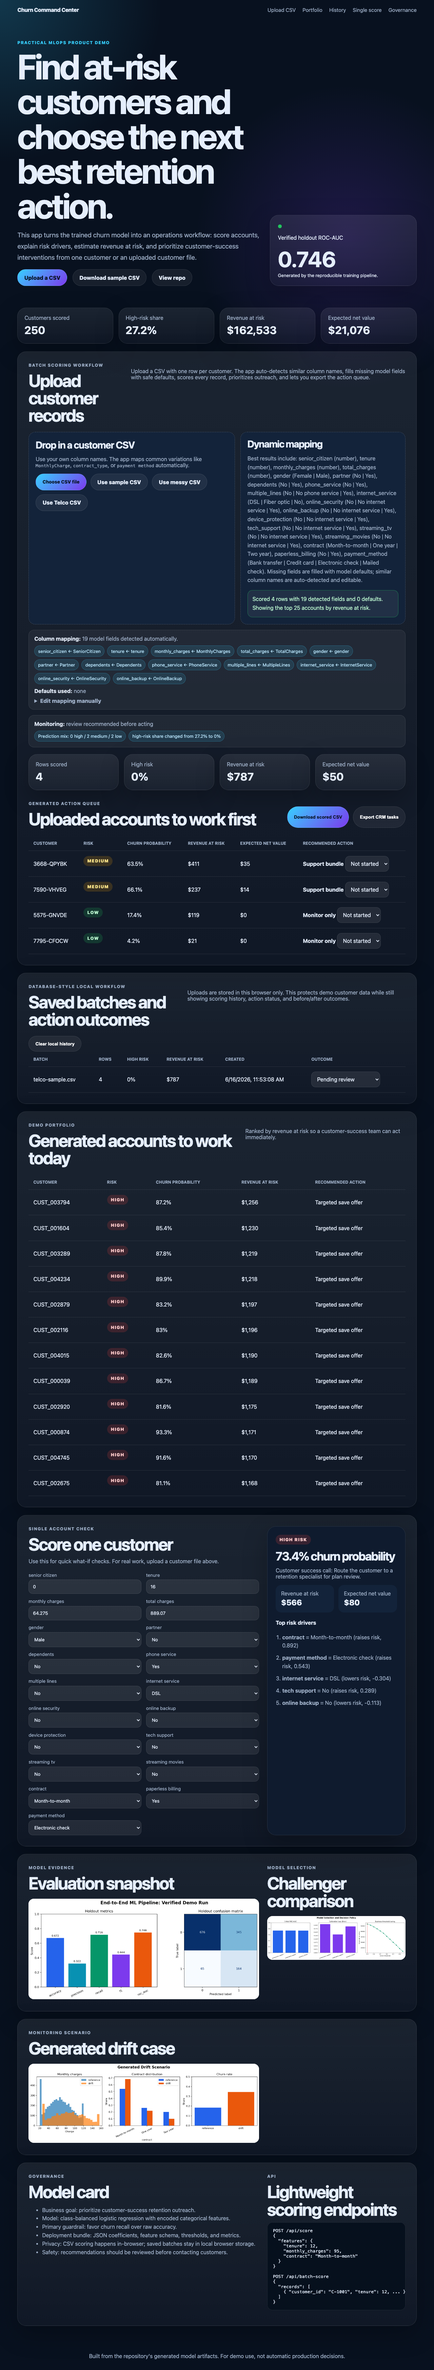
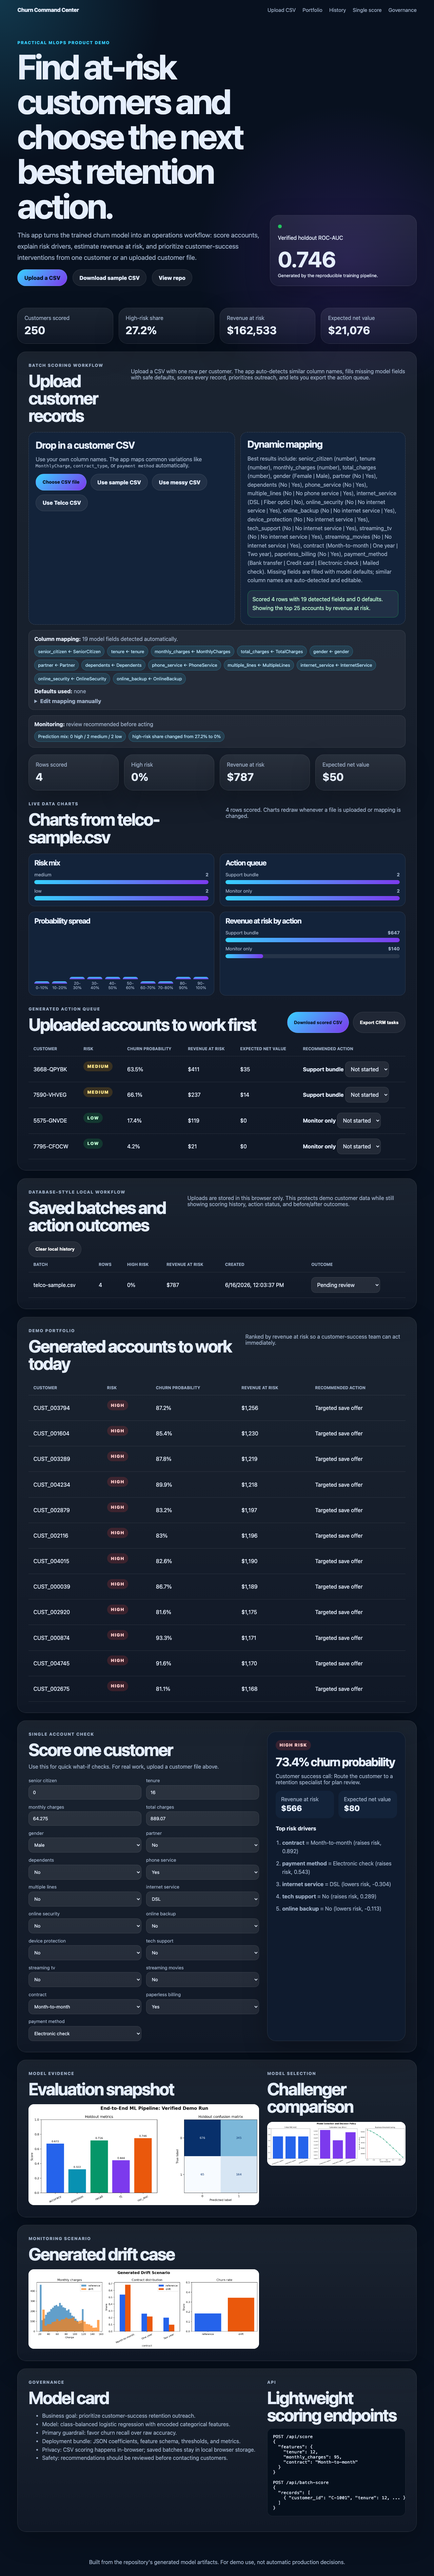
Add dynamic uploaded data charts

diff --git a/public/app.js b/public/app.js
@@ -198,6 +198,76 @@ function summarizeRows(rows) {
   };
 }
 
+function countBy(rows, getter) {
+  return rows.reduce((counts, row) => {
+    const key = getter(row) || "Unknown";
+    counts[key] = (counts[key] || 0) + 1;
+    return counts;
+  }, {});
+}
+
+function sumBy(rows, getter, valueGetter) {
+  return rows.reduce((totals, row) => {
+    const key = getter(row) || "Unknown";
+    totals[key] = (totals[key] || 0) + Number(valueGetter(row) || 0);
+    return totals;
+  }, {});
+}
+
+function renderBarChart(elementId, values, formatter = (value) => value.toLocaleString()) {
+  const element = document.querySelector(elementId);
+  const entries = Object.entries(values).sort((a, b) => b[1] - a[1]);
+  const max = Math.max(...entries.map(([, value]) => value), 1);
+  element.innerHTML = entries
+    .map(([label, value]) => {
+      const width = Math.max((value / max) * 100, 3);
+      return `
+        <div class="bar-row">
+          <div class="bar-label"><span>${label}</span><strong>${formatter(value)}</strong></div>
+          <div class="bar-track"><div class="bar-fill" style="width:${width}%"></div></div>
+        </div>
+      `;
+    })
+    .join("");
+}
+
+function renderProbabilityHistogram(rows) {
+  const bins = Array.from({ length: 10 }, (_, index) => ({
+    label: `${index * 10}-${index * 10 + 10}%`,
+    count: 0,
+  }));
+  rows.forEach((row) => {
+    const index = Math.min(Math.floor(row.score.churn_probability * 10), 9);
+    bins[index].count += 1;
+  });
+  const max = Math.max(...bins.map((bin) => bin.count), 1);
+  document.querySelector("#probability-chart").innerHTML = bins
+    .map(
+      (bin) => `
+        <div class="histogram-bin" title="${bin.label}: ${bin.count}">
+          <div class="histogram-bar" style="height:${Math.max((bin.count / max) * 100, 4)}%"></div>
+          <span>${bin.label}</span>
+        </div>
+      `,
+    )
+    .join("");
+}
+
+function renderLiveCharts(rows, label = "generated demo data") {
+  if (!rows.length) return;
+  document.querySelector("#chart-heading").textContent = `Charts from ${label}`;
+  document.querySelector("#chart-subtitle").textContent =
+    `${rows.length.toLocaleString()} rows scored. Charts redraw whenever a file is uploaded or mapping is changed.`;
+  renderBarChart("#risk-chart", countBy(rows, (row) => row.score.risk_band));
+  renderBarChart("#action-chart", countBy(rows, (row) => row.score.recommended_action));
+  renderProbabilityHistogram(rows);
+  renderBarChart(
+    "#revenue-action-chart",
+    sumBy(rows, (row) => row.score.recommended_action, (row) => row.score.revenue_at_risk),
+    money.format,
+  );
+}
+
 function parseCsv(text) {
   const rows = [];
   let row = [];
@@ -366,6 +436,7 @@ async function applyManualMapping() {
   renderMonitoringReport();
   renderUploadSummary(state.uploaded);
   renderUploadedTable();
+  renderLiveCharts(state.uploaded, "your remapped CSV");
   saveCurrentBatch("Manual mapping update");
 }
 
@@ -595,6 +666,7 @@ async function processUploadedCsv(text, label) {
   renderMonitoringReport();
   renderUploadSummary(state.uploaded);
   renderUploadedTable();
+  renderLiveCharts(state.uploaded, label);
   uploadResults.classList.remove("hidden");
   saveCurrentBatch(label);
 }
@@ -717,6 +789,7 @@ async function load() {
   renderSchemaHelp();
   renderForm();
   renderTable();
+  renderLiveCharts(state.customers, "generated demo data");
   loadHistory();
   renderHistory();
   updateScore();

diff --git a/public/styles.css b/public/styles.css
@@ -299,6 +299,91 @@ footer,
   margin: 1rem 0;
 }
 
+.insight-panel {
+  margin-top: 1.25rem;
+}
+
+.chart-grid {
+  display: grid;
+  gap: 1rem;
+  grid-template-columns: repeat(2, minmax(0, 1fr));
+}
+
+.live-chart-card {
+  background: var(--panel-2);
+  border: 1px solid var(--line);
+  border-radius: 1.1rem;
+  padding: 1rem;
+}
+
+.live-chart-card h3 {
+  font-size: 1.35rem;
+  margin-bottom: 1rem;
+}
+
+.bar-chart,
+.histogram {
+  display: grid;
+  gap: 0.7rem;
+}
+
+.bar-row {
+  display: grid;
+  gap: 0.45rem;
+}
+
+.bar-label {
+  align-items: center;
+  color: var(--muted);
+  display: flex;
+  font-size: 0.85rem;
+  justify-content: space-between;
+}
+
+.bar-track {
+  background: rgba(255, 255, 255, 0.08);
+  border-radius: 999px;
+  height: 0.8rem;
+  overflow: hidden;
+}
+
+.bar-fill {
+  background: linear-gradient(90deg, var(--brand), var(--brand-2));
+  border-radius: inherit;
+  height: 100%;
+  min-width: 0.35rem;
+}
+
+.histogram {
+  align-items: end;
+  display: flex;
+  gap: 0.45rem;
+  min-height: 11rem;
+}
+
+.histogram-bin {
+  align-items: center;
+  display: grid;
+  flex: 1;
+  gap: 0.35rem;
+  grid-template-rows: 1fr auto;
+  min-width: 0;
+}
+
+.histogram-bar {
+  align-self: end;
+  background: linear-gradient(180deg, var(--brand), var(--brand-2));
+  border-radius: 0.5rem 0.5rem 0 0;
+  min-height: 0.4rem;
+  width: 100%;
+}
+
+.histogram-bin span {
+  color: var(--muted);
+  font-size: 0.72rem;
+  text-align: center;
+}
+
 summary {
   cursor: pointer;
   font-weight: 800;
@@ -448,7 +533,8 @@ footer {
   .split,
   .form,
   .upload-grid,
-  .mapping-editor {
+  .mapping-editor,
+  .chart-grid {
     grid-template-columns: 1fr;
   }
 

diff --git a/public/index.html b/public/index.html
@@ -122,6 +122,34 @@
           </article>
         </div>
 
+        <section id="live-insights" class="insight-panel">
+          <div class="section-heading tight">
+            <div>
+              <p class="eyebrow">Live data charts</p>
+              <h2 id="chart-heading">Charts from generated demo data</h2>
+            </div>
+            <p id="chart-subtitle">Upload a CSV to redraw these charts from your file.</p>
+          </div>
+          <div class="chart-grid">
+            <article class="live-chart-card">
+              <h3>Risk mix</h3>
+              <div id="risk-chart" class="bar-chart"></div>
+            </article>
+            <article class="live-chart-card">
+              <h3>Action queue</h3>
+              <div id="action-chart" class="bar-chart"></div>
+            </article>
+            <article class="live-chart-card">
+              <h3>Probability spread</h3>
+              <div id="probability-chart" class="histogram"></div>
+            </article>
+            <article class="live-chart-card">
+              <h3>Revenue at risk by action</h3>
+              <div id="revenue-action-chart" class="bar-chart"></div>
+            </article>
+          </div>
+        </section>
+
         <div id="upload-results" class="hidden">
           <div class="section-heading tight">
             <div>

diff --git a/README.md b/README.md
@@ -32,9 +32,9 @@ The deployed dashboard presents the project as a usable customer-success workflo
 
 ![Customer Churn Command Center dashboard](docs/assets/app-dashboard.png)
 
-The upload workflow supports Telco-style CSV files, dynamic column mapping, monitoring warnings, saved local history, action status tracking, and CRM/task export.
+The upload workflow supports Telco-style CSV files, dynamic column mapping, live uploaded-data charts, monitoring warnings, saved local history, action status tracking, and CRM/task export.
 
-![CSV upload, mapping, monitoring, and action queue](docs/assets/app-upload-workflow.png)
+![CSV upload, mapping, live charts, monitoring, and action queue](docs/assets/app-upload-workflow.png)
 
 ## What Makes It Practical
 
@@ -145,6 +145,7 @@ Browser workflow features:
 - local saved upload history
 - action status and outcome tracking
 - input/prediction drift warnings
+- live charts from the current demo or uploaded dataset
 - scored CSV export
 - CRM/task-board CSV export
 - Web Worker scoring for larger browser uploads
@@ -304,7 +305,7 @@ npm run build
 
 ## Current Scope
 
-The web app is practical for a portfolio/demo and can be hosted. It includes dynamic CSV upload, editable mapping, local batch history, action tracking, drift warnings, CRM/task export, model selection evidence, and deployed APIs. Before using it for real customer decisions, add organization authentication, managed database persistence, consent/compliance checks, live CRM API credentials, post-intervention outcome ingestion, fairness review on real protected classes, model recalibration, and production observability.
+The web app is practical for a portfolio/demo and can be hosted. It includes dynamic CSV upload, editable mapping, uploaded-data charts, local batch history, action tracking, drift warnings, CRM/task export, model selection evidence, and deployed APIs. Before using it for real customer decisions, add organization authentication, managed database persistence, consent/compliance checks, live CRM API credentials, post-intervention outcome ingestion, fairness review on real protected classes, model recalibration, and production observability.
 
 ## License
 

diff --git a/docs/completion-report.md b/docs/completion-report.md
@@ -7,7 +7,7 @@
 - Model comparison with 5-fold cross-validation across logistic regression, calibrated logistic regression, and random forest.
 - Business threshold tuning by expected retention net value.
 - Lightweight JSON model bundle for Vercel serverless scoring.
-- Deployed dashboard with dynamic CSV upload, editable column mapping, Telco-style sample support, local batch history, action status tracking, outcome tracking, drift warnings, Web Worker scoring, scored CSV export, and CRM/task CSV export.
+- Deployed dashboard with dynamic CSV upload, editable column mapping, Telco-style sample support, uploaded-data charts, local batch history, action status tracking, outcome tracking, drift warnings, Web Worker scoring, scored CSV export, and CRM/task CSV export.
 - Serverless APIs for single-customer and batch scoring.
 - Governance docs: model card, data card, system design, deployment reference, and this completion report.
 - CI checks for compile, lint, tests, demo generation, web assets, scoring smoke tests, and Compose configuration.
